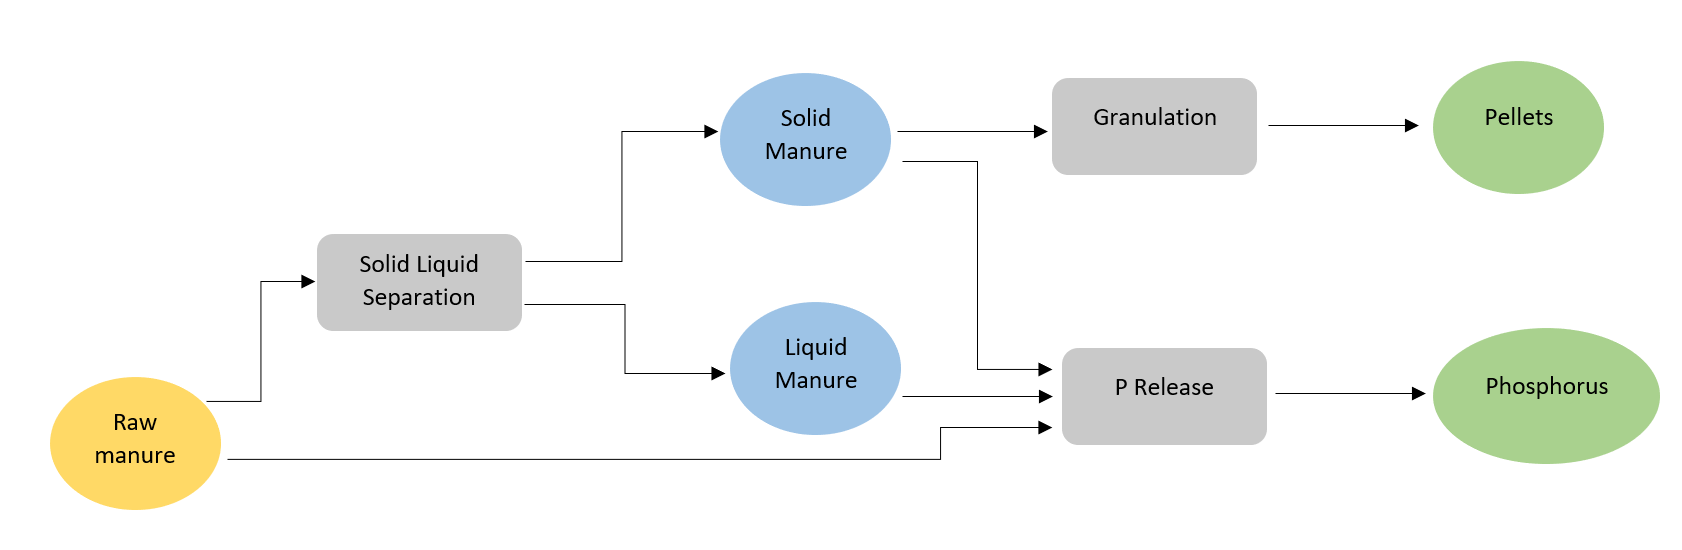
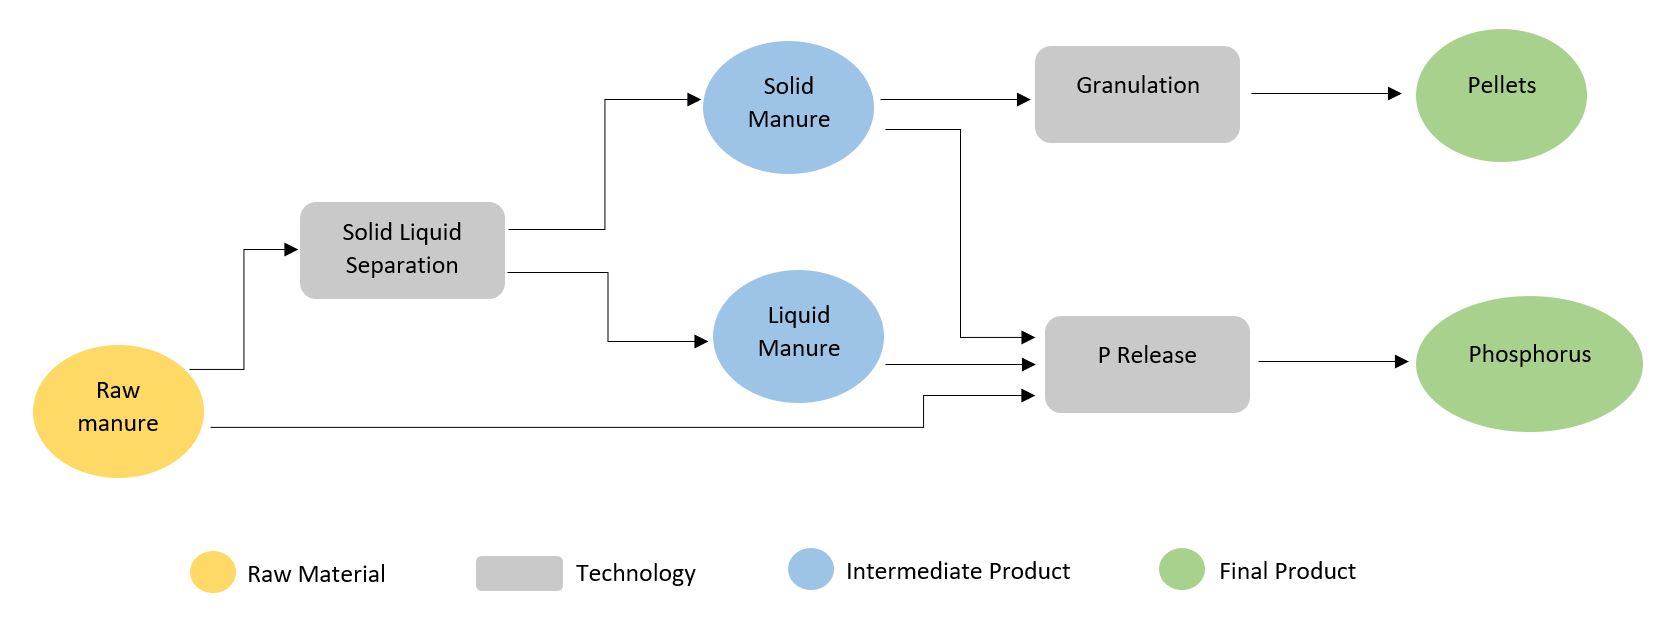
update to nutrient pollution case study

diff --git a/nutrient_pol.md b/nutrient_pol.md
@@ -17,13 +17,22 @@
 <h2>Process Graph</h2>
 
 <p>
-    
+    For the Nutrient Pollution Control case study, there are many products and technologies interacting with each other. This simplified process graph helps describe the potential products of the supply chain. 
 </p>
 
 <img src="Pictures\nutrient_pol\process_graph.png">
 
+<p>
+    In this system, there are three types of technologies: Solid Liquid Separation (SLS), Granulation, and P Release. SLS technologies take in raw cow manure and separates it into solid and liquid components. Granulation technologies take in the solid component from SLS technology and creates pellets which are used as fertilizers. P Release technologies are a pseudo technology that produces phosphorus from raw, solid, or liquid manure.  
+</p>
+
+<p>
+    If you map out every possible technology and product pathway, you get a process graph. 
+</p>
 
 <h2>Case 1: $0 USD/kg P</h2>
+
+
 <h2>Case 2: $0.5 USD/kg P</h2>
 <h2>Case 3: $2.5 USD/kg P</h2>
 <h2>Case 4: $10 USD/kg P</h2>
